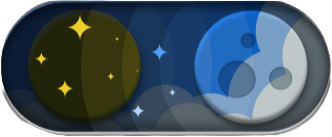
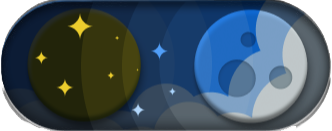
Finished light/dark mode toggle

diff --git a/src/components/toggle.jsx b/src/components/toggle.jsx
@@ -2,16 +2,46 @@ import React from 'react';
 // Import styles
 import '../styles/toggle.css';
 // Import images
-import claro from '../assets/Light1.png';
-import escuro from '../assets/Light5.png';
+import day from '../assets/Light1.png';
+import night from '../assets/Light5.png';
+
+const Toggle = ({ handleChange, isChecked }) => {
+    return (
+        <div className='toggleContainer' onClick={handleChange}>
+            <img
+                src={day}
+                alt="Bright"
+                className='toggle'
+                style={{ opacity: isChecked ? 0 : 1 }}
+            />
+            <img
+                src={night}
+                alt="Dark"
+                className='toggle'
+                style={{ opacity: isChecked ? 1 : 0 }}
+            />
+        </div>
+    );
+};
+
+export default Toggle;
+
+/* import React from 'react';
+// Import styles
+import '../styles/toggle.css';
+// Import images
+import lighta from '../assets/Light1.png';
+import lightb from '../assets/Light2.png';
+import lightc from '../assets/Light3.png';
+import lightd from '../assets/Light4.png';
+import lighte from '../assets/Light5.png';
 
 const Toggle = ({ handleChange, isChecked }) => {
     // Corrected ternary operation to choose between images
-    const toggleImg = isChecked ? escuro : claro;
+    const toggleImg = isChecked ? lighte : lighta;
 
     return ( 
         <div className='toggleContainer'>
-            {/* Updated img tag to use toggleImg for the src attribute */}
             <img 
                 src={toggleImg} 
                 alt="toggle" 
@@ -21,7 +51,7 @@ const Toggle = ({ handleChange, isChecked }) => {
      );
 }
 
-export default Toggle;
+export default Toggle; */
 
 /* import React from 'react';
 // Import styles

diff --git a/src/styles/toggle.css b/src/styles/toggle.css
@@ -5,13 +5,6 @@ label {
     color: var(--title1-color);
 }
 
-label::before {
-    content: '';
-    border-radius: 1em;
-    background-image: var(--toggle-img);
-    transition: background-color 250ms ease-in-out;
-}
-
 .toggle {    
     height: 2em;
     width: 4em;
@@ -19,7 +12,37 @@ label::before {
     background-size: contain; /* Or 'cover' depending on your needs */
     background-position: center;
     background-repeat: no-repeat;
+    transition: opacity 1s ease-in-out;
+    position: absolute;
 }
+
+.toggleContainer {
+    position: relative; /* Establishes a stacking context */
+    height: 2em; /* Set to image height */
+    width: 4em; /* Set to image width */
+  }
+
+/* label {
+    display: flex;
+    align-items: center;
+    font-size: 1.5em; 
+    color: var(--title1-color);
+}
+
+label::before {
+    content: '';
+    border-radius: 1em;
+    transition: background-color 250ms ease-in-out;
+}
+
+.toggle {    
+    height: 2em;
+    width: 4em;
+    cursor: pointer;   
+    background-size: contain;
+    background-position: center;
+    background-repeat: no-repeat;
+} */
 
 /* .toggle {
     visibility: hidden;

diff --git a/src/styles/footer.css b/src/styles/footer.css
@@ -1,7 +1,7 @@
 .footer {
     display: flex;
     justify-content: space-between;
-    align-items: flex-end;
+    align-items: center;
     margin: 0 3px;
 }
 
